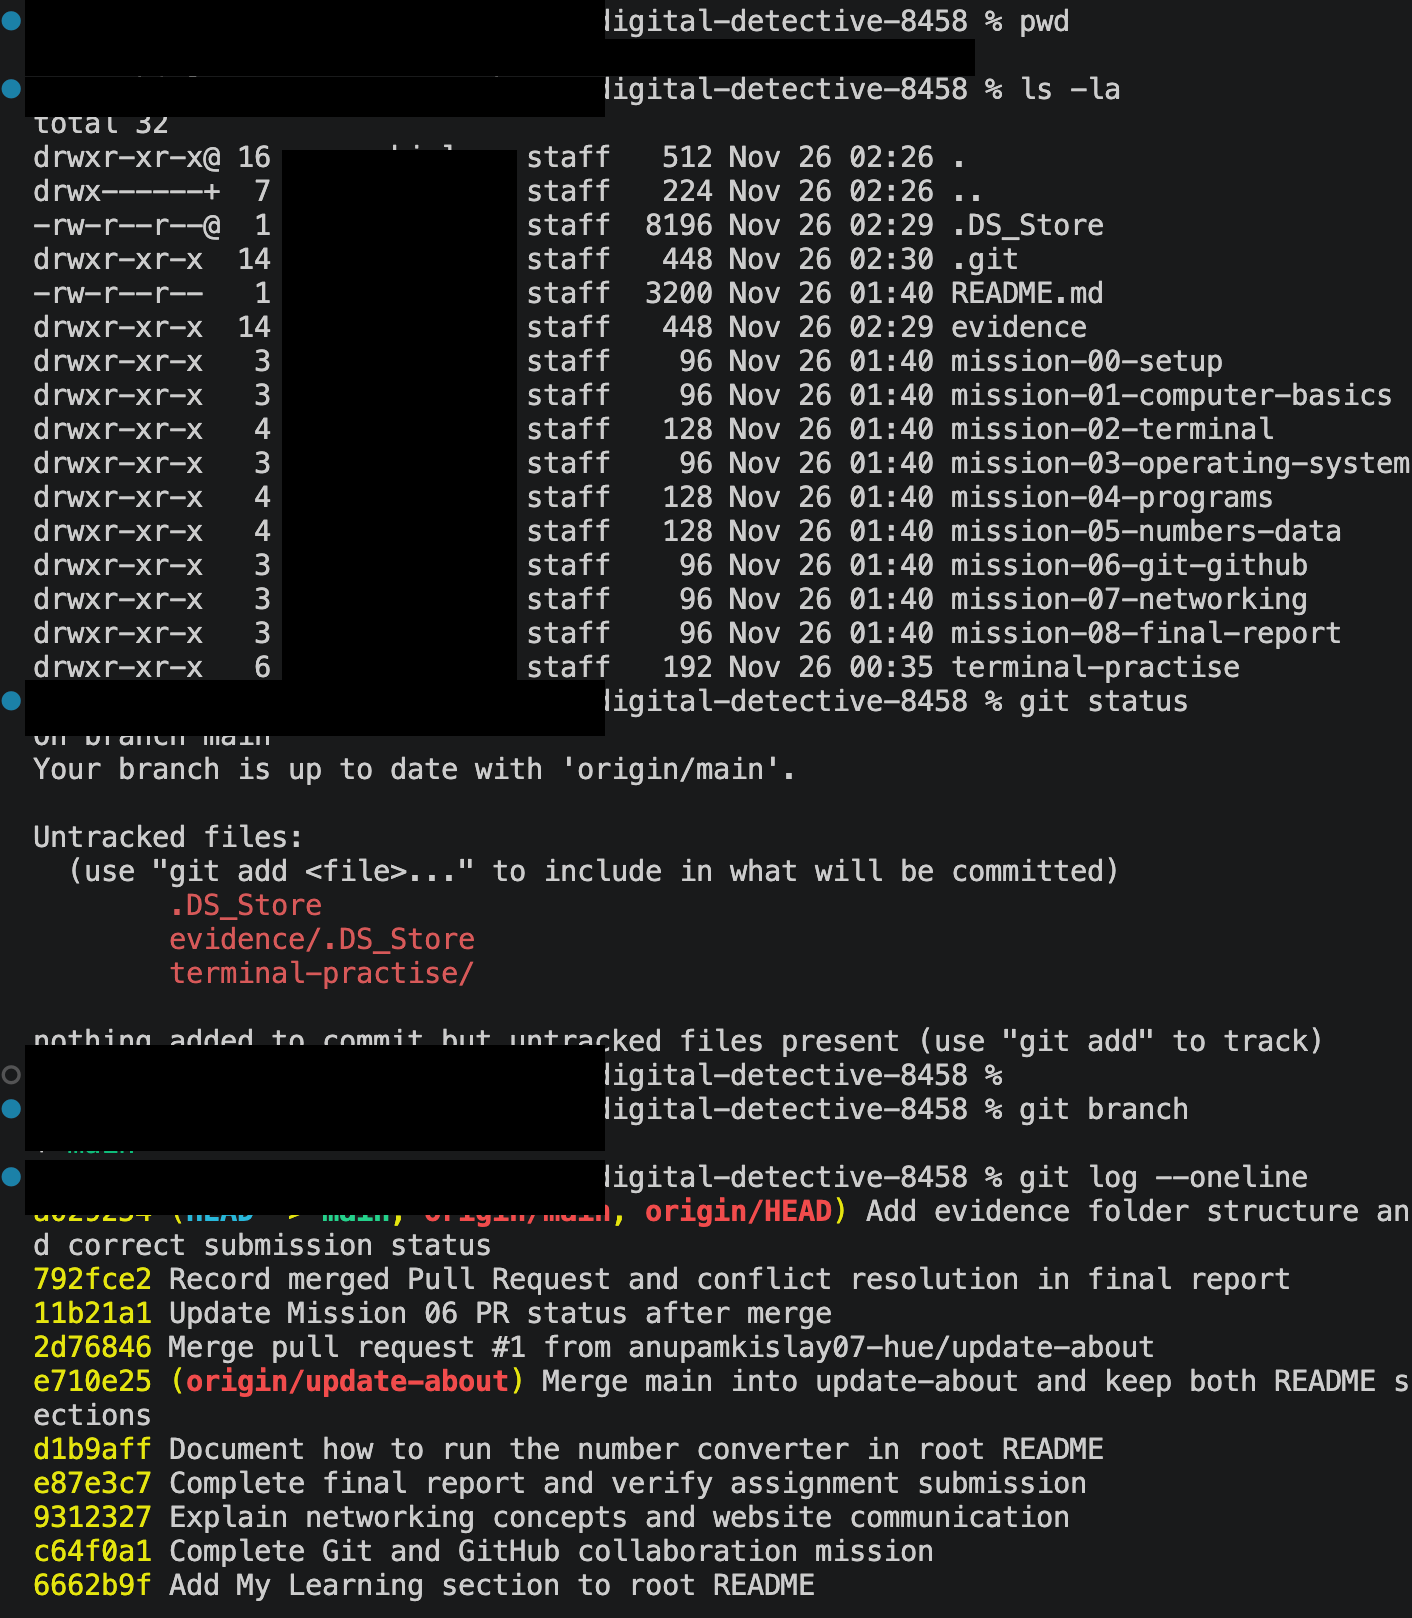
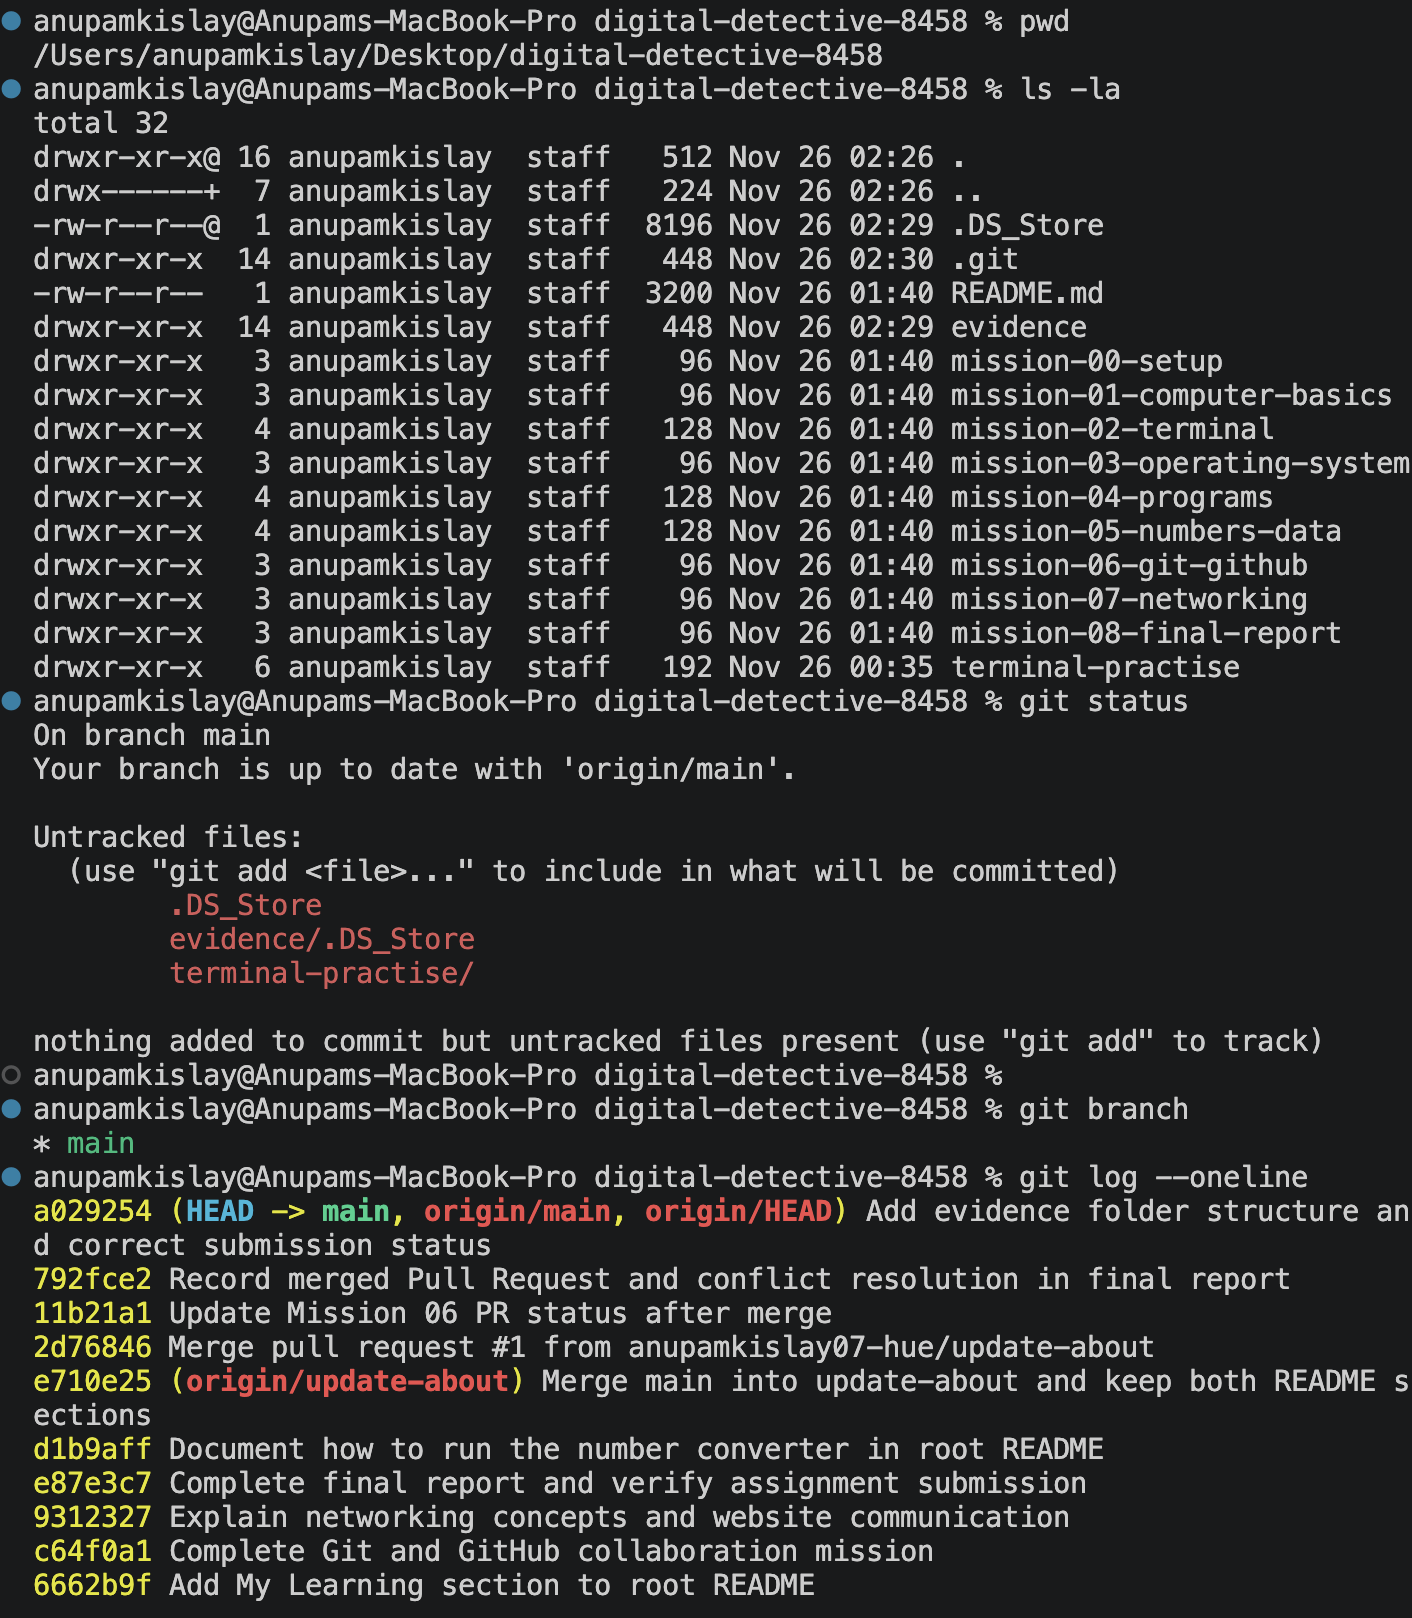
Use original screenshots without redactions

Changed region(s): [[0.0, 0.0, 0.6856, 0.4635], [0.0, 0.6489, 0.4363, 0.8653], [0.0312, 0.8962, 0.0935, 0.9889]]

diff --git a/evidence/README.md b/evidence/README.md
@@ -1,6 +1,6 @@
 # Evidence — screenshots
 
-The screenshots below are copies of the supplied images. I redacted computer account names, device names, home-directory details and the serial number before adding them here. The original images remain unchanged outside this repository.
+The screenshots below are copies of the images supplied for this repository. They are unredacted, as requested.
 
 Evidence is arranged in one folder per mission, from `mission-00-setup/` through `mission-08-final-report/`, with short descriptive PNG filenames.
 
@@ -28,4 +28,4 @@ Evidence is arranged in one folder per mission, from `mission-00-setup/` through
 - Mission 07: include the `curl` response headers in the network capture.
 - Mission 08: capture the final clean Git status after committing and pushing the evidence.
 
-Before publishing any new screenshot, hide computer account names, hostnames, serial numbers, home paths, local IP addresses and Wi-Fi names. Public example-domain addresses are fine.
+The screenshots show the original terminal prompts and computer information. They have not been altered.
